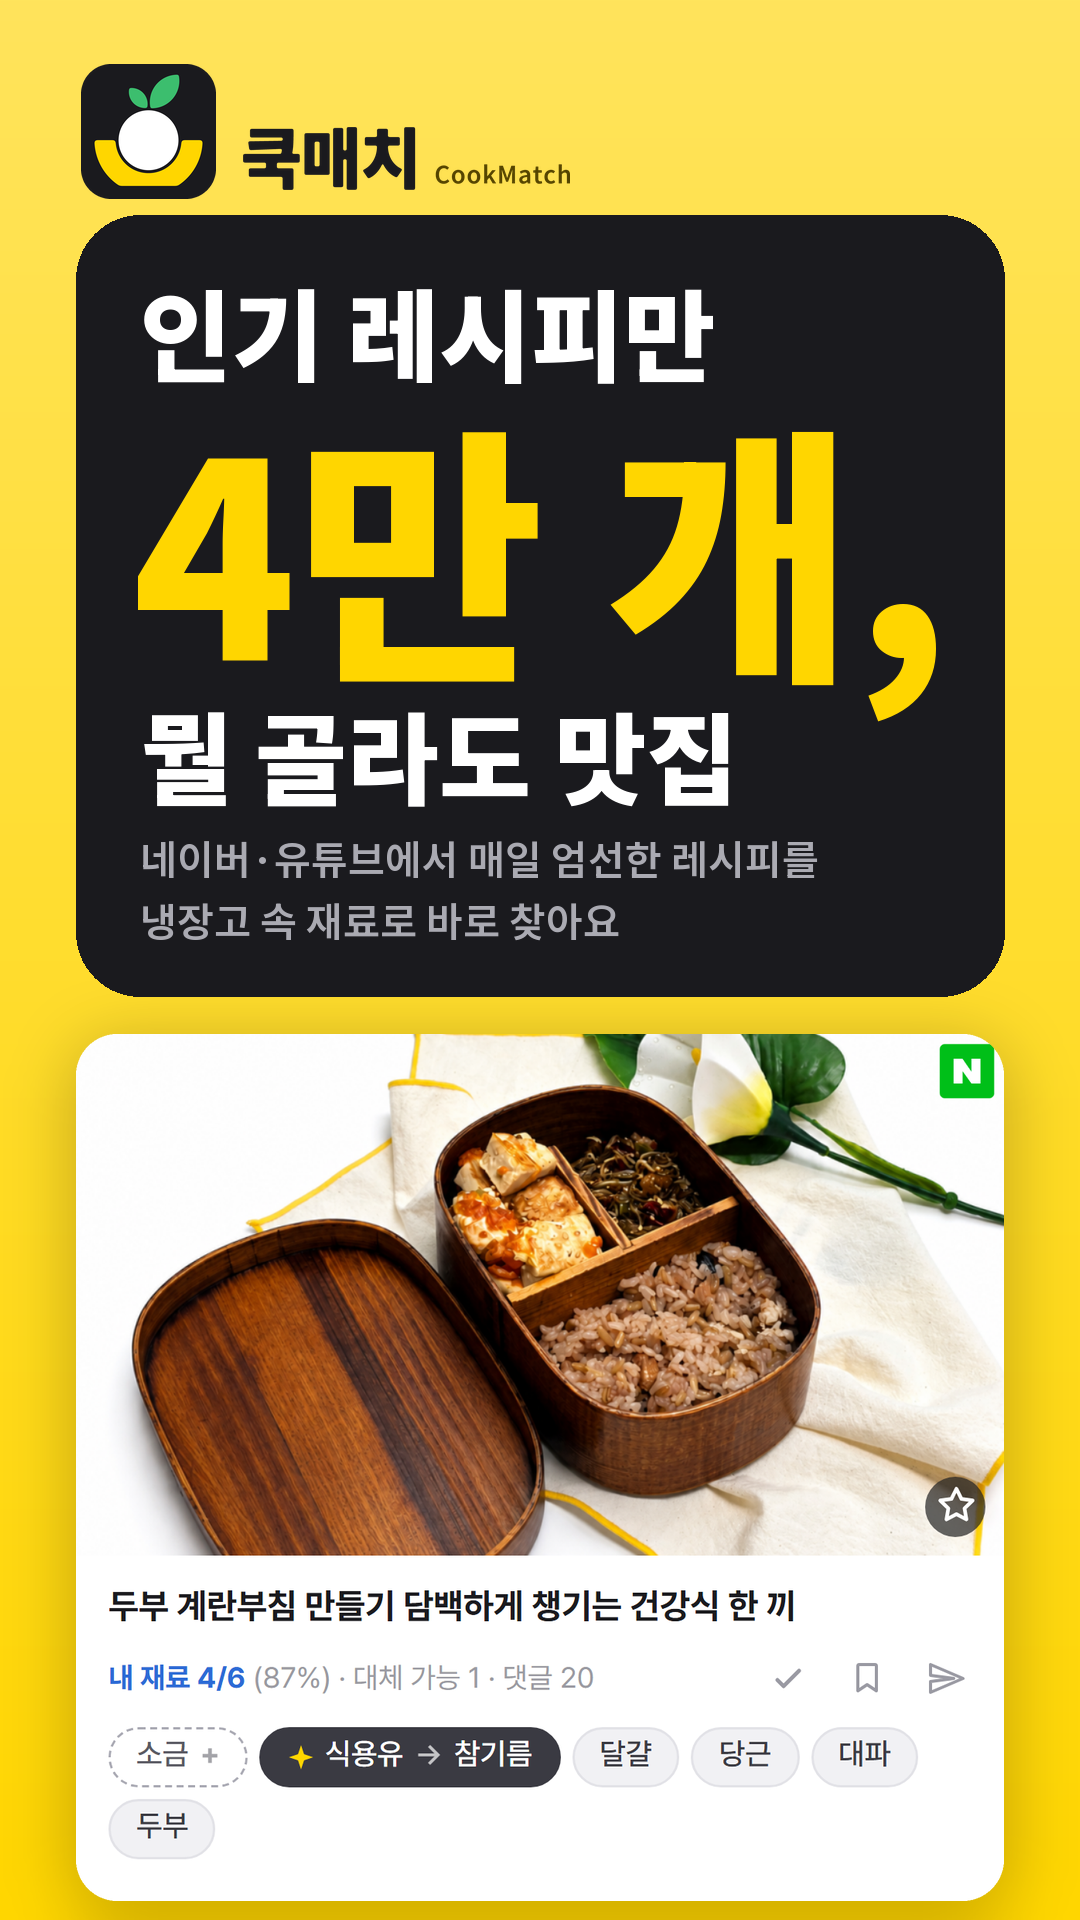
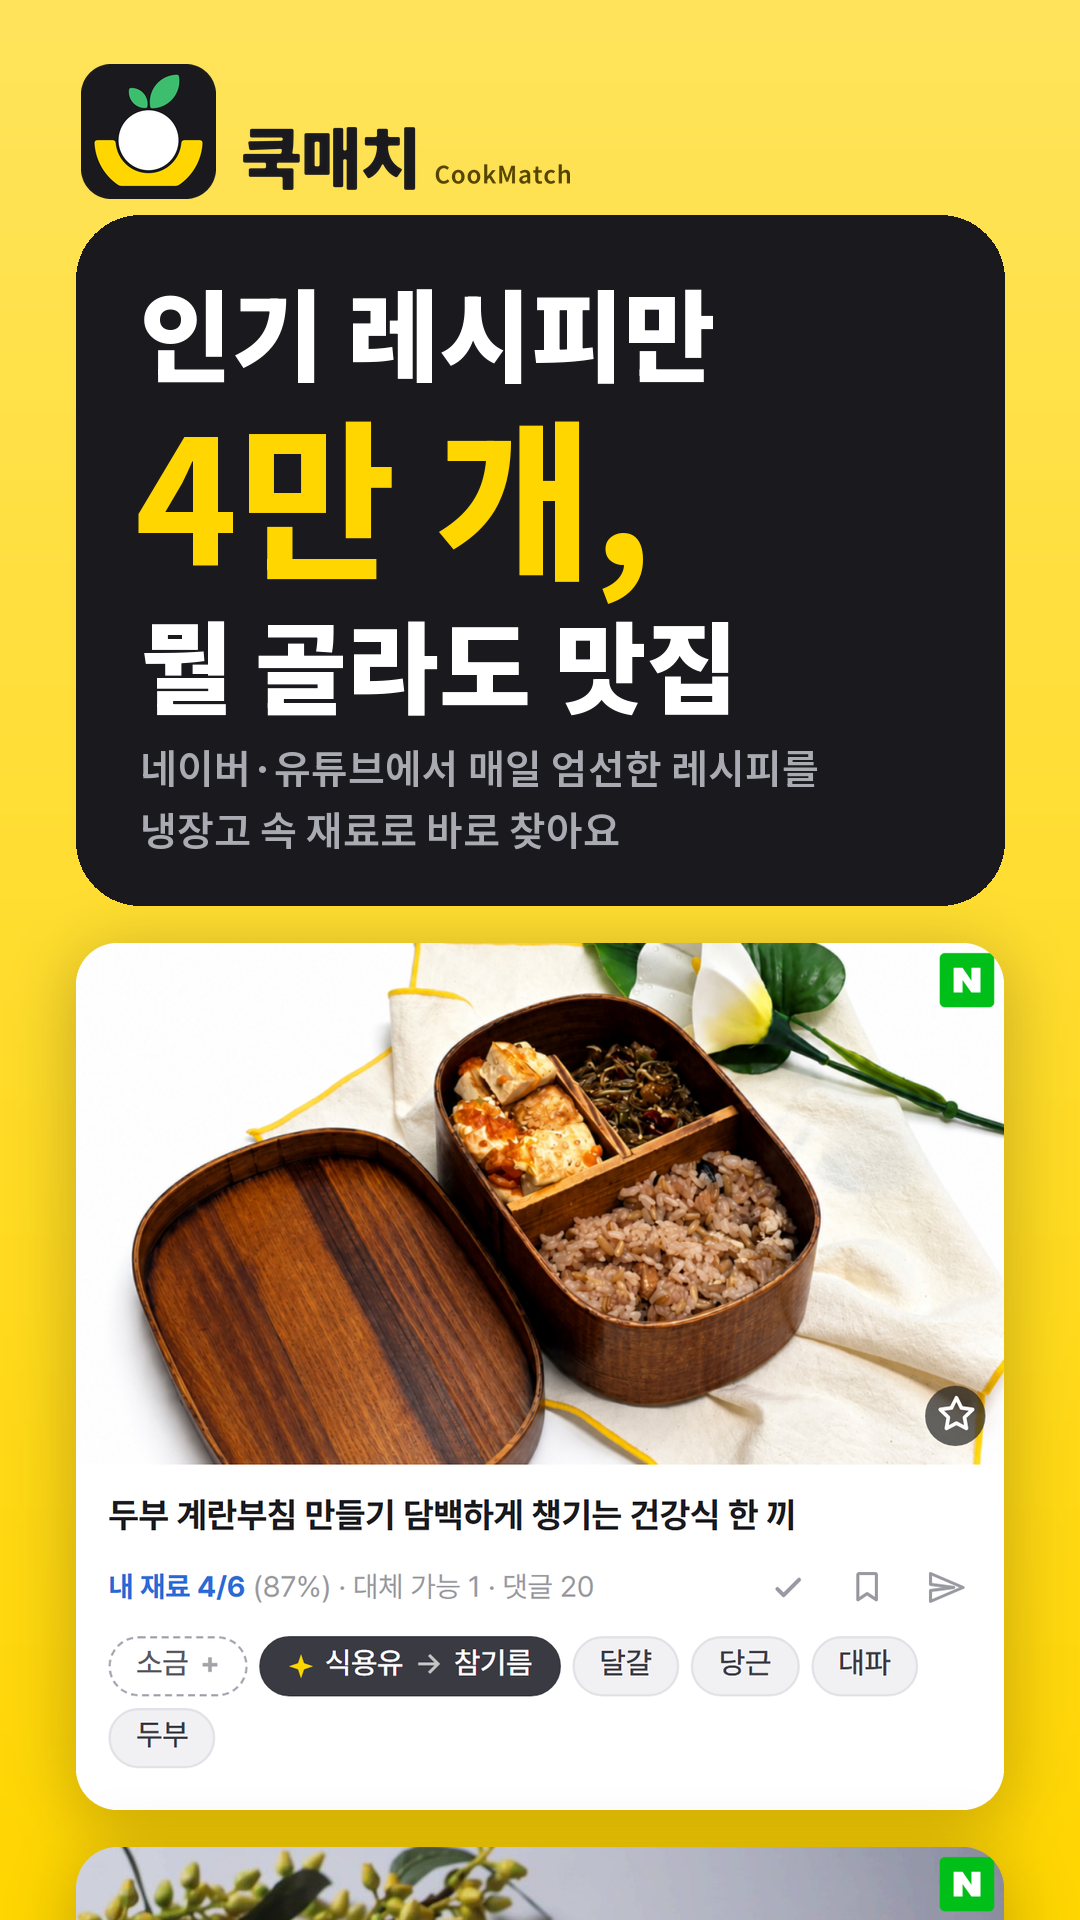
스플래시 iOS 모션 통일·시작 지연, 스토어 1번 장 4만 개 글자 크기 조정

diff --git a/frontend/src/components/SplashScreen.tsx b/frontend/src/components/SplashScreen.tsx
@@ -1,5 +1,4 @@
 import React, { useEffect, useRef, useState } from 'react';
-import { Capacitor } from '@capacitor/core';
 import BrandMark from './brand/BrandMark';
 import BrandWordmark from './brand/BrandWordmark';
 
@@ -42,7 +41,7 @@ const STYLES = {
   },
   wordmarkBox: {
     marginTop: 14,
-    animation: 'brand-wordmark-in .35s ease-out .95s both',
+    animation: 'brand-wordmark-in .35s ease-out 1.25s both',
   },
   statGroup: {
     position: 'absolute' as const,
@@ -114,7 +113,8 @@ const prefersReducedMotion = (): boolean =>
 
 // iOS 는 네이티브 정지 스플래시(완성된 마크)가 먼저 보이다가 이 화면으로 넘어온다 — 같은 모양에서 시작해
 // 한 번 떴다 앉는다(hop). 웹·안드로이드는 받침부터 차례로 쌓는다(intro).
-const markMotion = (): 'hop' | 'intro' => (Capacitor.getPlatform() === 'ios' ? 'hop' : 'intro');
+// iOS 도 intro(받침 → 재료 낙하 → 앉음 → 잎)로 통일 — hop 은 완성된 마크에서 살짝 뜨기만 해 정지 화면처럼 보였다(2026-11-08 폰 녹화)
+const markMotion = (): 'hop' | 'intro' => 'intro';
 
 const SplashScreen: React.FC<SplashScreenProps> = ({ recipeCount }) => {
   const [stage, setStage] = useState<'roulette' | 'final'>('roulette');
@@ -123,6 +123,12 @@ const SplashScreen: React.FC<SplashScreenProps> = ({ recipeCount }) => {
   const rouletteStartTime = useRef<number>(0);
   // 마운트 때 한 번만 정한다 — 숫자가 도착해 다시 그려져도 앉는 모션이 한 번 더 돌지 않게
   const motionRef = useRef<'hop' | 'intro'>(markMotion());
+  // 앱 화면(WebView)이 실제로 보이기 시작한 뒤에 모션을 시작한다 — 마운트 직후부터 돌면 네이티브 스플래시가 덮고 있는 동안 끝나 버린다
+  const [markReady, setMarkReady] = useState(false);
+  useEffect(() => {
+    const t = setTimeout(() => setMarkReady(true), 300);
+    return () => clearTimeout(t);
+  }, []);
 
   useEffect(() => {
     if (recipeCount === 0) {
@@ -171,7 +177,9 @@ const SplashScreen: React.FC<SplashScreenProps> = ({ recipeCount }) => {
   return (
     <div style={STYLES.container}>
       <div style={STYLES.brandGroup}>
-        <BrandMark ingredient="ball" tone="onYellow" size={210} motion={motionRef.current} title="쿡매치" style={{ ...STYLES.mark, height: 'auto' }} />
+        {markReady
+          ? <BrandMark ingredient="ball" tone="onYellow" size={210} motion={motionRef.current} title="쿡매치" style={{ ...STYLES.mark, height: 'auto' }} />
+          : <div aria-hidden style={{ ...STYLES.mark, aspectRatio: '1 / 1' }} />}
         <div className="brand-wordmark-in" style={STYLES.wordmarkBox}>
           <BrandWordmark size={26} color={INK} subColor="rgba(26, 26, 30, 0.62)" />
         </div>

diff --git a/store/make_store_assets_v3.py b/store/make_store_assets_v3.py
@@ -420,7 +420,7 @@ def place_card(img, card, x, y, dark, blur=None):
         ImageDraw.Draw(img).rounded_rectangle([x, y, x + cw - 1, y + ch - 1], radius=r, outline=(66, 66, 72), width=max(2, img.width // 380))
 
 
-def brand_text(img, W, hsize, ink, sub, accent, bigk=0.265, pad=None, ytop=None, wm_color=None):
+def brand_text(img, W, hsize, ink, sub, accent, bigk=0.17, pad=None, ytop=None, wm_color=None):
     """워드마크 + 헤드라인(인기 레시피만 / 큰 4만 개, / 뭘 골라도 맛집) + 보조 두 줄. 반환: 다음 y.
     워드마크·헤드라인 첫 줄 위치는 다른 장(아이콘 원 + 헤드라인)과 같게 맞춘다."""
     d = ImageDraw.Draw(img)
@@ -434,9 +434,9 @@ def brand_text(img, W, hsize, ink, sub, accent, bigk=0.265, pad=None, ytop=None,
     d.text((pad, y), "인기 레시피만", font=f, fill=ink)
     y += int(hsize * 1.26)
     big = int(W * bigk)
-    fb = font(big, 900)
+    fb = font(big, 800)  # 900 + 너무 큰 크기는 세로로 늘어나 보였다(2026-11-08) — 크기를 줄이고 한 단계 가볍게
     d.text((pad - int(big * 0.03), y - int(big * 0.04)), "4만 개,", font=fb, fill=accent)
-    y += int(big * 1.10)
+    y += int(big * 1.2)  # 쉼표가 다음 줄(뭘 골라도 맛집)을 침범하지 않게
     d.text((pad, y), "뭘 골라도 맛집", font=f, fill=ink)
     y += int(hsize * 1.26) + int(W * 0.012)
     sf = font(int(W * 0.0375), 600)
@@ -457,10 +457,10 @@ def render_brand(W, H, hsize, variant=None):
         px = (W - cw) // 2
         top = int(W * 0.075) + int(W * 0.105) + int(W * 0.02)
         probe = Image.new("RGBA", (W, H))
-        iy = brand_text(probe, W, hsize, WHITE, (170, 170, 178), BRAND, bigk=0.25, pad=px + int(W * 0.06), ytop=top + int(W * 0.055), wm_color=INK)
+        iy = brand_text(probe, W, hsize, WHITE, (170, 170, 178), BRAND, bigk=0.16, pad=px + int(W * 0.06), ytop=top + int(W * 0.055), wm_color=INK)
         bottom = iy + int(W * 0.035)
         ImageDraw.Draw(img).rounded_rectangle([px, top, px + cw, bottom], radius=int(W * 0.06), fill=INK)
-        y_end = brand_text(img, W, hsize, WHITE, (170, 170, 178), BRAND, bigk=0.25, pad=px + int(W * 0.06), ytop=top + int(W * 0.055), wm_color=INK)
+        y_end = brand_text(img, W, hsize, WHITE, (170, 170, 178), BRAND, bigk=0.16, pad=px + int(W * 0.06), ytop=top + int(W * 0.055), wm_color=INK)
         y_end = bottom - int(W * 0.015)
     elif dark:
         y_end = brand_text(img, W, hsize, WHITE, (170, 170, 178), BRAND)

diff --git a/RELEASE_NOTES.md b/RELEASE_NOTES.md
@@ -14,6 +14,7 @@
 ## 다음 버전 — 쌓는 중 (iOS 1.0.11 · 빌드 18 / Android 1.0.14 · versionCode 15)
 
 **마이페이지 개편 (2026-11-06, 웹 코드라 앱은 새 빌드 필요):**
+- (2026-11-08 38차) 스플래시 로고 모션을 iOS 에서도 「받침→재료 낙하→앉음→잎」으로 통일, 앱 화면이 보인 뒤 시작
 - (2026-11-08 37차) 스플래시 레시피 수가 0에서 천천히 올라가는 카운트업 복원 · 앱 처음 진입 로딩을 재료가 하나씩 앉는 애니메이션으로
 - (2026-11-07 36차) **새 로고 적용**: 앱 아이콘(iOS·Android)·시작 화면·알림 작은 아이콘을 새 로고(노랑 바탕·흰 재료·검정 받침·초록 잎)로 교체, iOS 18 다크·틴트 아이콘·Android 13 테마 아이콘 추가, 위젯 추가 화면 미리보기 이름을 「쿡 픽」·「식단 짜기」로 정리. 스토어 아이콘 512·1024·피처 그래픽도 새로 만듦(Play 콘솔·App Store Connect 업로드는 직접). 푸시 알림 강조색을 한 가지(진노랑 #E0A800)로 통일(서버 배포 후 적용)
 - (2026-11-07 35차) 브랜드 적용 B(웹 코드라 앱은 새 빌드 필요, 웹은 푸시 즉시): 새 로고(재료가 받침에 딱 앉는 마크)를 앱 안에 적용 — 스플래시가 노랑 바탕에 재료가 받침에 딱 앉는 애니메이션으로, 헤더 로고가 굵은 「쿡매치」 + 작은 「CookMatch」 글자로 · iOS 도 앱이 뜨면 바로 정지 시작 화면을 닫아 스플래시 애니메이션이 보이게 · 냉장고요리 계산 로딩이 재료가 하나씩 받침에 앉는 그림으로 · 레시피 목록 빈 화면 2종이 마크 일러스트로 · 「내 재료 N/M」이 다 맞는 레시피·사진 인식 결과·식단 짜기 결과에서 마크가 한 번 앉음(처음 보일 때 1회, 스크롤마다 반복 안 함) · 웹 아이콘·파비콘·홈 화면 추가 아이콘·푸시 알림 아이콘이 새 로고로, 링크 공유 미리보기 이미지 신설
